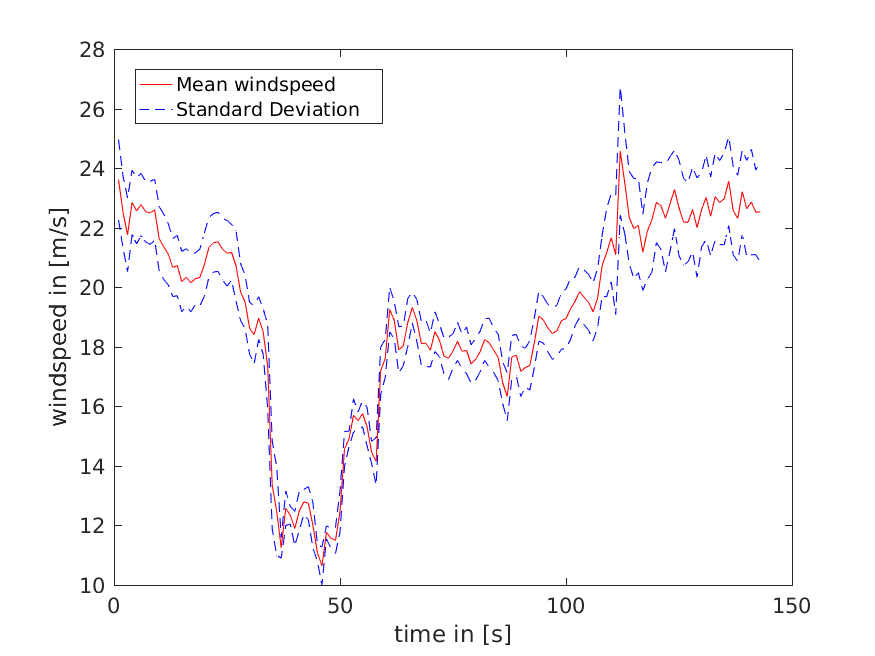
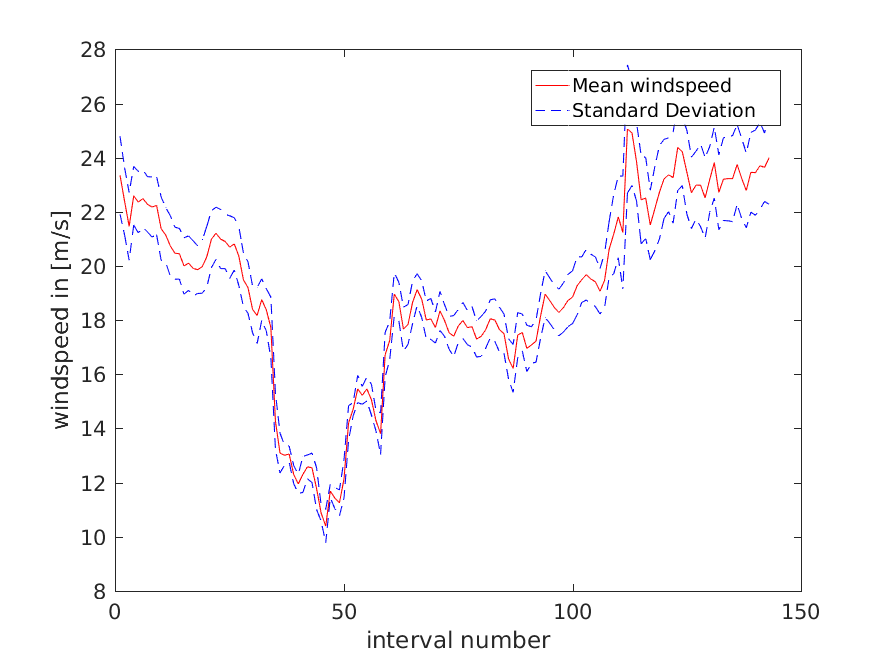
task 5

diff --git a/Task1/run_task1.m b/Task1/run_task1.m
@@ -1,19 +1,20 @@
-%% preprocess data
-disp('Preprocessing Data')
+%% Task 1: Import data and preprocess
 disp('Loading Data ...')
 raw_data = readtable('1301.txt','Delimiter','tab');
-disp('Writing timestamp ...')
 time_stamp = raw_data{:, {'Time'}};
-disp('Writing raw_data')
 raw_data = raw_data{:, {'d90', 'd33', 'u100', 'u90', 'u80', ...
 'u70', 'u60', 'u50', 'u40', 'u33'}};
 disp('Converting time with datenum ...')
 t = (datenum(time_stamp, 'yyyy-mm-dd HH:MM:SS'));
 clear time_stamp;
 t = round(t*24*3600);
+
+%% Task 2: Marking invalid data
 disp('Marking invalid data ...')
 %raw_data(raw_data==-999) = NaN(size(raw_data(raw_data==-999)));
 raw_data(raw_data==-999) = NaN;
+
+%% Task 3: Generate continuous time axis
 disp('Creating continous time axis')
 tnew=[t(1):1:t(end)]';
 n = length(tnew);
@@ -26,11 +27,9 @@ time = (1:length(data_pp))';
 data_pp = [time, data_pp];
     save('data_pp.mat', 'data_pp', 'raw_data');
 
-%% Evaluation
-load('data_pp.mat');
-
-% means and 10 min means
+%% Task 4: 10 minutes mean, stddev and plotting
 disp('Computing 10min means and stddev');
+load('data_pp.mat');
 means_interval10 = zeros(round(n/600),20);
 for i = 1:n/600
    %treat wind vanes
@@ -61,19 +60,60 @@ for i = 1:n/600
        means_interval10(i,j*2) = nanstd(data_pp((i-1)*600+1:i*600,j+1));
    end
 end
-
 save('meansAndStddev.mat', 'means_interval10');
-%% plot for January 30th
-load('meansAndStddev.mat');
+
+%plot for January 30th u90
 start30thJan = 29*24*6;
 figure();
-plot(means_interval10(start30thJan+1:start30thJan+24*6,5), '-r');
+plot(means_interval10(start30thJan+1:start30thJan+24*6,7), '-r');
 hold on;
-plot(means_interval10(start30thJan+1:start30thJan+24*6,5)+means_interval10(start30thJan+1:start30thJan+24*6,6), '--b');
-plot(means_interval10(start30thJan+1:start30thJan+24*6,5)-means_interval10(start30thJan+1:start30thJan+24*6,6), '--b');
-xlabel('time in [s]');
+plot(means_interval10(start30thJan+1:start30thJan+24*6,7)+means_interval10(start30thJan+1:start30thJan+24*6,8), '--b');
+plot(means_interval10(start30thJan+1:start30thJan+24*6,7)-means_interval10(start30thJan+1:start30thJan+24*6,8), '--b');
+xlabel('interval number');
 ylabel('windspeed in [m/s]');
-legend('Mean windspeed','Standard Deviation','Location','northwest');
+legend('Mean windspeed','Standard Deviation');
 disp('saving plot to Plots/mean_intervall_withstd.png');
 saveas(gcf,'Plots/mean_intervall_withstd.png');
 hold off;
+
+%% Task 5: Finding spike for u100
+found = 0;
+for i = 1:n/600
+   currentMean = means_interval10(i,5);
+   currentStddev = means_interval10(i,6);
+   for j = 1:600
+        if abs(data_pp((i-1)*600+j,4) - currentMean) > currentStddev*5
+            %found spike in this interval
+            disp(['found spike in interval ', num2str(i), ' with mean ', num2str(currentMean), ' and stddev ', num2str(currentStddev)]);
+            interval = i;
+            found = 1;
+            break;
+        end
+   end
+   if found == 1
+       break;
+   end
+end
+%plot the found interval containing a spike
+figure();
+plot(data_pp((i-1)*600+1:i*600,4), '-r');
+meanCurve = @(x) currentMean;
+upper = @(x) currentMean + currentStddev;
+lower = @(x) currentMean - currentStddev;
+upper5 = @(x) currentMean + 5*currentStddev;
+lower5 = @(x) currentMean - 5*currentStddev;
+hold on;
+fplot(meanCurve,[0 600],'k-o');
+fplot(upper,[0 600],'g--');
+fplot(lower,[0 600],'g--');
+fplot(upper5,[0 600],'r-.');
+fplot(lower5,[0 600],'r-.');
+xlabel('time in [s]');
+ylabel('windspeed in [m/s]');
+legend('Data','Mean windspeed','Standard Deviation','5 x Standard Deviation');
+disp('saving plot to Plots/interval_spike.png');
+saveas(gcf,'Plots/interval_spike.png');
+hold off;
+
+%% Task 6: Increment PDF
+
